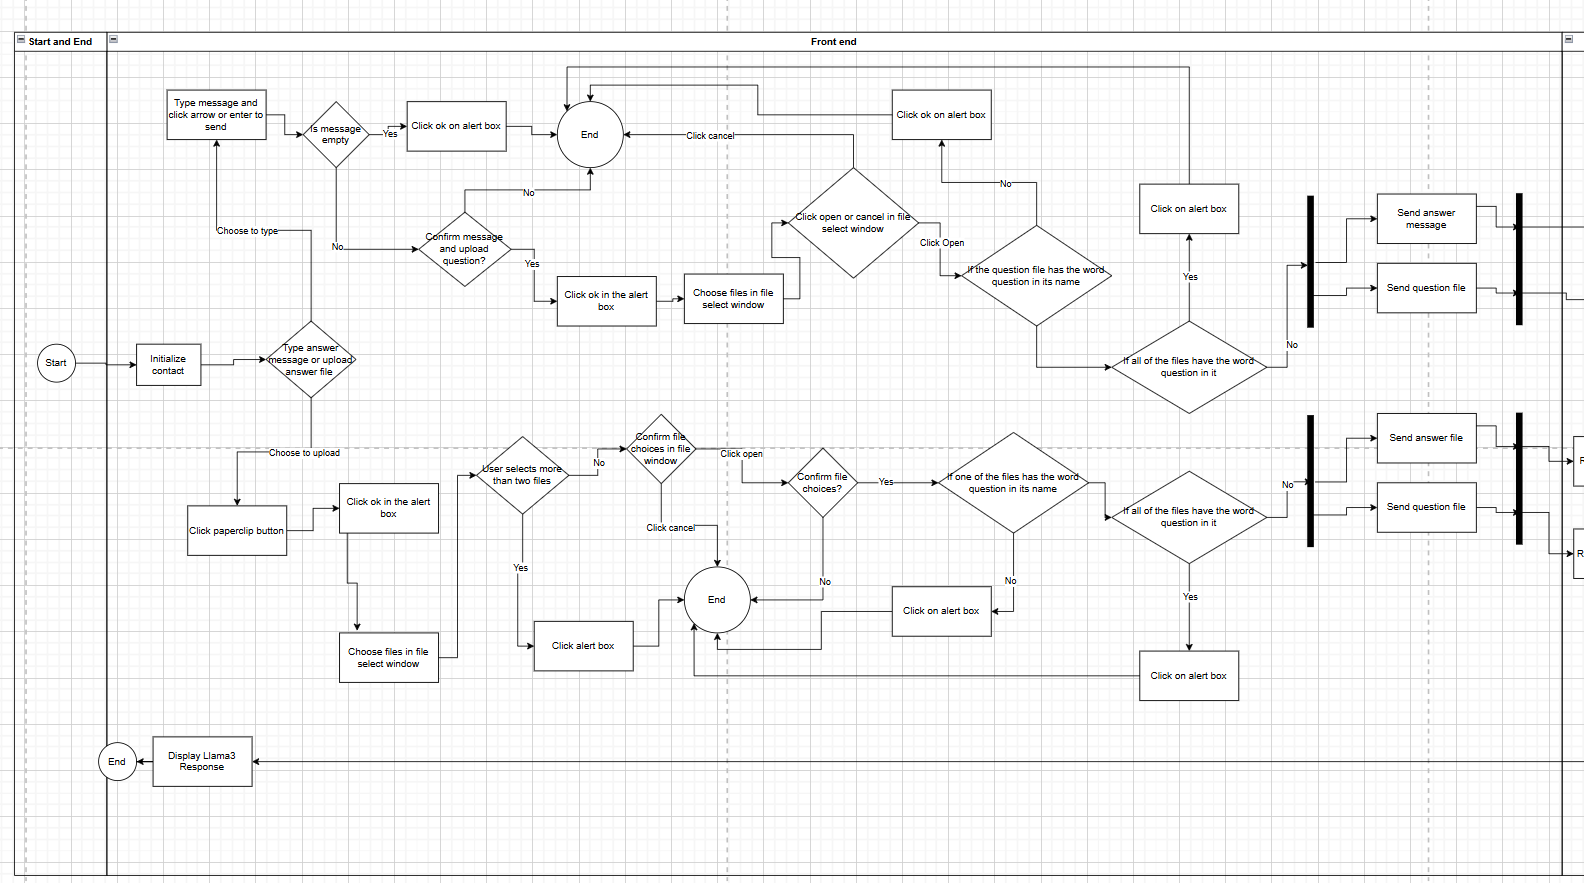
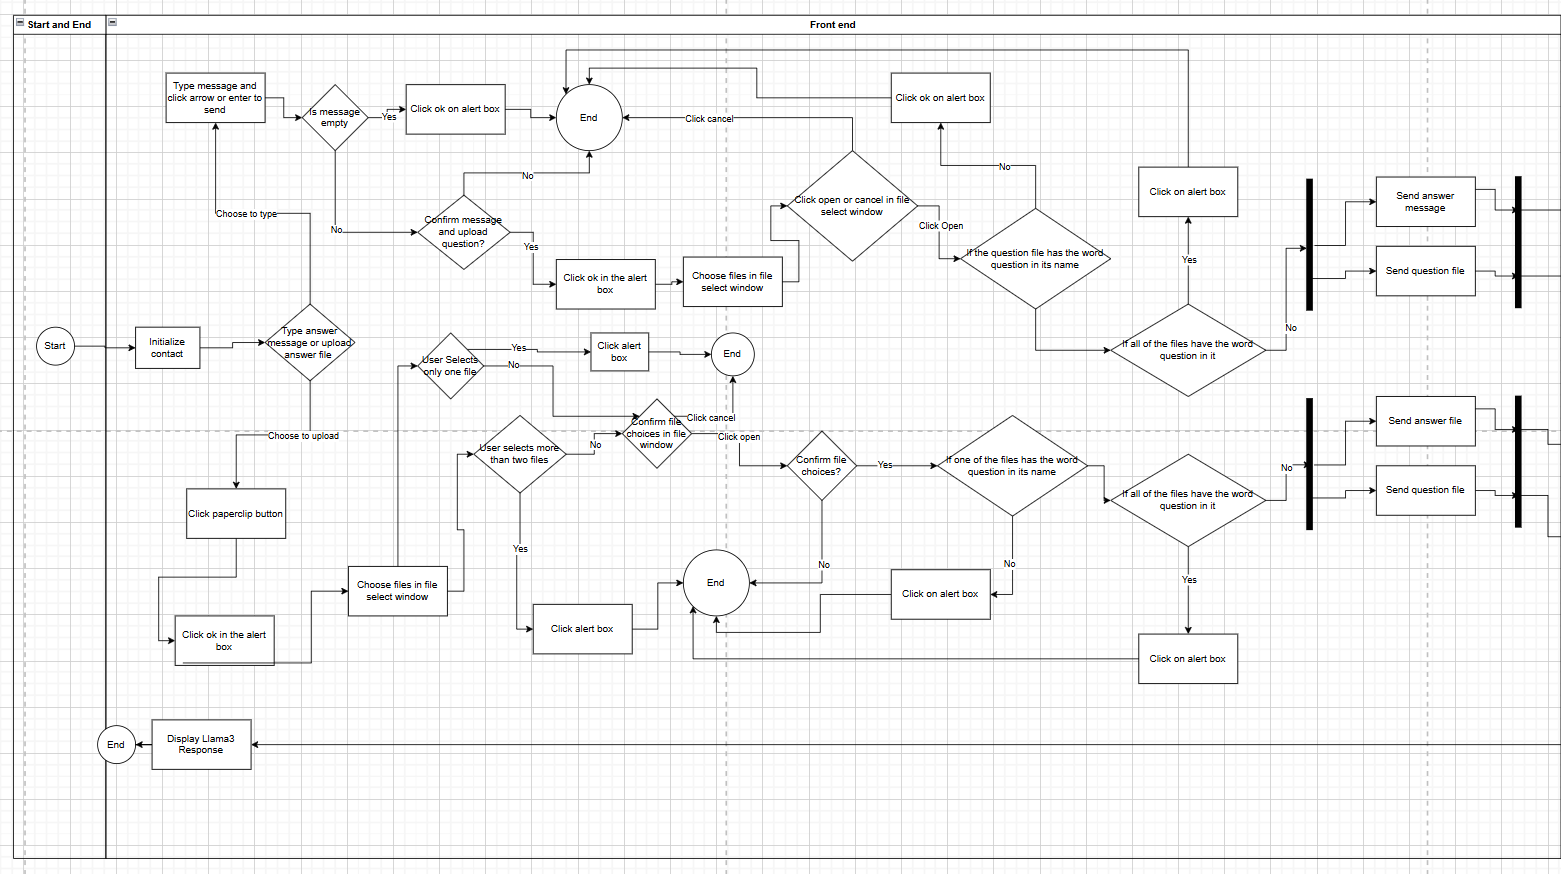
Fixed small bugs and made modifications to errors messages

diff --git a/Front End/AngularInterface/src/app/file-upload/file-upload.component.ts b/Front End/AngularInterface/src/app/file-upload/file-upload.component.ts
@@ -56,6 +56,9 @@ export class FileUploadComponent{
     if (totalFiles > this.maxFiles) {
       alert(`You can only upload a maximum of ${this.maxFiles} files.`);
     }
+    else if(totalFiles == 1){
+      alert('Error: Only one file selected. Please select two files')
+    }
     else{
       if(this.parseFiles(files)){
         if(this.fileNames === undefined || this.fileNames.length == 0){

diff --git a/Back End/sendToModel.py b/Back End/sendToModel.py
@@ -8,12 +8,12 @@ import replicateLlama3APICall
 
 def sendFile_and_ChatGPTResponse(file_content):
     questions = readtxt('.\Temp_Save\questionsFORAI129.txt')
-    if(questions == ""):
-        return "Please upload a question before sending answers."
+    if ("Error: Invalid" in file_content):
+        return file_content
     elif ("Error: Invalid" in questions):
         return questions
-    elif ("Error: Invalid" in file_content):
-        return file_content
+    elif(questions == ""):
+        return "Please upload a valid question file before sending answers."
     #print(questions)
     AIresponse = getAIResponse.send_request(questions)
     #AIresponse = "The sun appears to be yellow to our eyes because of the way Earth's atmosphere scatters sunlight. The sunlight is made up of various colors, and when it enters our atmosphere, shorter wavelengths like blue and violet are scattered more widely, while longer wavelengths like red, orange, and yellow pass through and reach our eyes. This scattering effect causes the sun to appear more yellow or orange when it is low in the sky, as the light has to pass through a greater distance of the atmosphere. Ultimately, the sun's true color is white, but our eyes perceive it as yellow due to atmospheric scattering."

diff --git a/Back End/pythonflask.py b/Back End/pythonflask.py
@@ -63,7 +63,8 @@ def upload_question():
             return jsonify({"error": "Invalid request, missing question name or file content"}), 400
         file_path = os.path.join('Temp_Save', file_name)
         result = questionprocessing.readFile(file_content, file_path, file_name)
-        os.remove(file_path)
+        if(("Error: Invalid" in result) == False):
+            os.remove(file_path)
         return jsonify({"Result": result})
     else:
         return jsonify({"error": "Invalid content type, must be application/json"}), 400
@@ -80,8 +81,9 @@ def upload_file_with_python():
         if not file_name or not file_content:
             return jsonify({"error": "Invalid request, missing question name or Question Content"}), 400
         result = questionprocessing.readFile(file_content, file_path, file_name)
-        os.remove(file_path)
-        
+        if(("Error: Invalid" in result) == False):
+            os.remove(file_path)
+                
         file_name = data.get('answer_name')
         file_content = data.get('answer_content')
         file_path = os.path.join('Temp_Save', file_name)

diff --git a/Back End/questionprocessing.py b/Back End/questionprocessing.py
@@ -13,7 +13,7 @@ def readFile(filecontent, filepath, filename):
             return result
         return result
     else:
-        return "Error: Invalid filetype for question file. Please enter a file with an extension of .txt"
+        return "Error: Invalid filetype for question. Please enter a file with an extension of .txt"
 
 def readtxt(file_path):
     contents = ""
